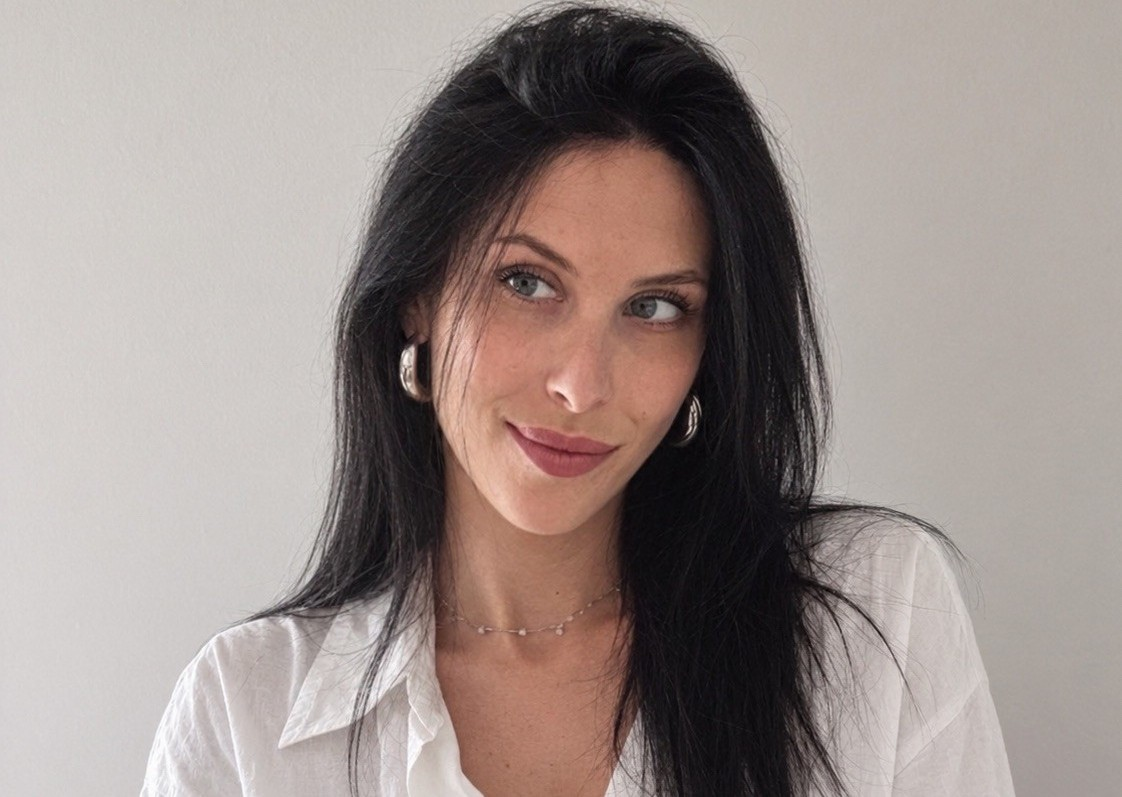
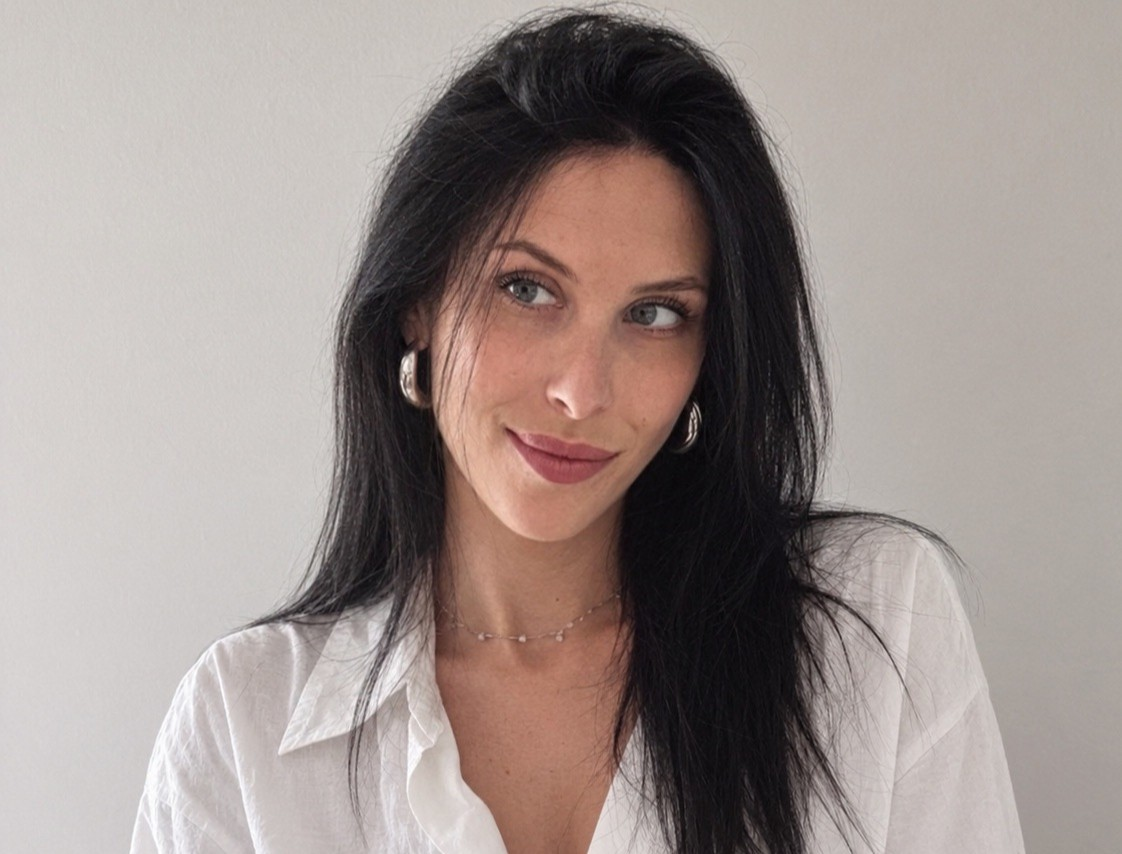
Add pictures and adjust size

diff --git a/css/style.css b/css/style.css
@@ -2,14 +2,14 @@
 
 :root{--white:#FFFFFF;--surface:#CDFFB9;--plum:#40263D;--ink:#29232A;--muted:#746B70;--accent:#40263D;--accent-hover:#80464D;--border:#CDFFB9;--serif:Georgia,'Times New Roman',serif;--sans:'Inter',Arial,sans-serif;--display:'Space Grotesk',sans-serif;--mono:'JetBrains Mono','DM Mono',monospace;--container:1160px;--ease:cubic-bezier(.2,.75,.25,1)}
 *{box-sizing:border-box}html{scroll-behavior:smooth;scroll-padding-top:90px}body{margin:0;background:var(--white);color:var(--ink);font-family:var(--sans);font-size:15px;line-height:1.7;-webkit-font-smoothing:antialiased}a{color:inherit;text-decoration:none}button,input,textarea{font:inherit}button,a{-webkit-tap-highlight-color:transparent}.container{width:min(var(--container),calc(100% - 64px));margin-inline:auto}.mono,.eyebrow{font-family:var(--mono);letter-spacing:.08em}.skip-link{position:fixed;z-index:1000;top:8px;left:8px;padding:10px 14px;background:var(--plum);color:white;transform:translateY(-150%)}.skip-link:focus{transform:none}:focus-visible{outline:3px solid var(--accent);outline-offset:4px}.site-header{position:sticky;z-index:20;top:0;background:rgba(255,255,255,.94);backdrop-filter:blur(14px);border-bottom:1px solid rgba(64,38,61,.08)}.nav-shell{height:76px;display:flex;align-items:center;justify-content:space-between}.brand{font:700 14px var(--display);letter-spacing:.11em;color:var(--plum)}.brand-dot{color:var(--accent)}.nav-links{display:flex;align-items:center;gap:34px;list-style:none;padding:0;margin:0}.nav-links a{font-size:12px;color:var(--muted);transition:color .2s}.nav-links a:hover,.nav-links a[aria-current=location]{color:var(--plum)}.nav-links .nav-contact{color:var(--plum);border:1px solid var(--border);padding:10px 14px;border-radius:3px}.nav-contact span{color:var(--accent);padding-left:8px}.menu-toggle{display:none;background:none;border:0;padding:10px;color:var(--plum)}.menu-toggle span{display:block;width:23px;height:1px;background:currentColor;margin:6px}
-.section-wrap{padding:0}.hero{min-height:calc(100svh - 76px);position:relative;display:flex;flex-direction:column;justify-content:center;overflow:hidden}.hero-grid{display:grid;grid-template-columns:1.03fr .97fr;align-items:center;gap:5%;padding-top:52px;padding-bottom:94px}.eyebrow{font-size:10px;color:var(--accent);font-weight:500;margin:0 0 23px}.status-dot{width:7px;height:7px;border-radius:50%;background:var(--accent);display:inline-block;margin-right:10px;box-shadow:0 0 0 4px rgba(138,38,54,.11)}h1,h2,h3,p{margin-top:0}h1,h2,h3{font-family:var(--display);color:var(--plum)}h1{font-size:clamp(48px,6.2vw,80px);letter-spacing:-.065em;line-height:1.02;margin:0 0 25px;font-weight:500}h1 span{color:var(--accent)}.hero-intro{color:var(--muted);font-size:16px;line-height:1.8;max-width:430px;margin-bottom:32px}.hero-actions{display:flex;align-items:center;gap:27px}.button{border:0;display:inline-flex;align-items:center;justify-content:center;gap:22px;padding:14px 18px;font-size:12px;font-weight:600;transition:background .2s,transform .2s var(--ease),box-shadow .2s}.button-primary{background:var(--accent);color:white}.button-primary:hover{background:var(--accent-hover);transform:translateY(-2px);box-shadow:0 8px 18px rgba(128,70,77,.14)}.text-link{font-size:12px;font-weight:600;color:var(--plum)}.text-link span{color:var(--accent);padding-left:8px}.hero-note{margin:50px 0 0;font-size:10px;letter-spacing:.02em;color:var(--muted)}.hero-note .mono{font-size:9px;color:var(--accent);margin-right:13px}.hero-art{min-height:480px;position:relative;overflow:hidden;background:#fcf5f6;border:1px solid var(--border)}.art-grid{position:absolute;inset:0;background-image:linear-gradient(rgba(64,38,61,.055) 1px,transparent 1px),linear-gradient(90deg,rgba(64,38,61,.055) 1px,transparent 1px);background-size:42px 42px;mask-image:linear-gradient(135deg,black 15%,transparent 85%)}.orbit{position:absolute;border:1px solid rgba(64,38,61,.16);border-radius:50%;left:50%;top:48%;transform:translate(-50%,-50%) rotate(-32deg)}.orbit-one{width:360px;height:245px}.orbit-two{width:260px;height:390px;transform:translate(-50%,-50%) rotate(37deg)}.orb{position:absolute;border-radius:50%}.orb-main{width:190px;height:210px;left:50%;top:48%;transform:translate(-50%,-50%) rotate(28deg);border-radius:57% 43% 62% 38%/46% 44% 56% 54%;background:radial-gradient(ellipse at 35% 28%,#f5c6cb 0%,#df929b 42%,#40263D 100%);box-shadow:inset -15px -12px 25px rgba(64,38,61,.13),0 26px 46px rgba(64,38,61,.12);animation:float 7s ease-in-out infinite}.orb-small{width:69px;height:69px;left:25%;top:29%;background:#e4d9ef;border:8px solid rgba(255,255,255,.6);box-shadow:0 10px 24px rgba(64,38,61,.08)}.orb-leaf{width:56px;height:105px;right:18%;bottom:22%;border-radius:100% 0 100% 0;transform:rotate(40deg);background:linear-gradient(140deg,#d4e3d3,#8faa94);opacity:.85}.art-node{position:absolute;width:8px;height:8px;background:var(--plum);border:2px solid #fff;border-radius:50%;box-shadow:0 0 0 1px var(--plum)}.node-one{left:22%;top:63%}.node-two{right:24%;top:28%}.node-three{right:33%;bottom:16%;background:var(--accent)}.art-caption{position:absolute;left:24px;bottom:23px;display:flex;align-items:center;gap:12px;font-size:9px;color:var(--plum)}.caption-line{display:block;width:42px;height:1px;background:var(--accent)}.art-index{position:absolute;top:22px;right:22px;font-size:9px;color:var(--muted)}.hero-bottom{position:absolute;bottom:22px;left:50%;transform:translateX(-50%);display:flex;justify-content:space-between;color:#998f94;font-size:9px}.hero-bottom .mono,.scroll-cue{font-size:9px}.scroll-cue span{color:var(--accent);padding-left:8px}
-.section{padding:125px 0}.about-section{background:#fff}.about-grid{display:grid;grid-template-columns:1fr 1fr;column-gap:10%;row-gap:50px}.section-heading .eyebrow{margin-bottom:20px}.section-heading h2,.contact-copy h2{font-size:clamp(38px,4.5vw,57px);line-height:1.12;letter-spacing:-.055em;font-weight:500;margin:0}.section-heading em,.contact-copy h2 em{font-family:var(--serif);font-weight:400;color:var(--accent)}.about-content{padding-top:50px;color:var(--muted);max-width:500px}.about-content p{margin-bottom:20px}.about-content .lead{color:var(--plum);font-size:19px;line-height:1.65}.about-meta{border-top:1px solid var(--border);margin-top:30px;padding-top:16px;display:flex;align-items:center;justify-content:space-between;color:var(--accent);font-size:9px}.meta-mark{font-size:22px}.profile-placeholder{grid-column:1/-1;margin-left:auto;width:44%;max-width:465px}.profile-frame{height:200px;border:1px dashed #dcaeb8;background:linear-gradient(135deg,#fcf4f5,#fff);display:flex;align-items:center;justify-content:center;position:relative;color:#b48691;font-size:10px;line-height:1.8;text-align:center}.profile-frame img{position:absolute;inset:0;width:100%;height:100%;object-fit:cover;object-position:center 8%}.profile-spark{position:absolute;right:22px;top:16px;color:var(--accent);font-size:20px}.profile-caption{display:block;text-align:right;padding-top:9px;color:#a08e94;font-size:8px}
+.section-wrap{padding:0}.hero{min-height:calc(100svh - 76px);position:relative;display:flex;flex-direction:column;justify-content:center;overflow:hidden}.hero-grid{display:grid;grid-template-columns:1.03fr .97fr;align-items:center;gap:5%;padding-top:52px;padding-bottom:94px}.eyebrow{font-size:10px;color:var(--accent);font-weight:500;margin:0 0 23px}.status-dot{width:7px;height:7px;border-radius:50%;background:var(--accent);display:inline-block;margin-right:10px;box-shadow:0 0 0 4px rgba(138,38,54,.11)}h1,h2,h3,p{margin-top:0}h1,h2,h3{font-family:var(--display);color:var(--plum)}h1{font-size:clamp(48px,6.2vw,80px);letter-spacing:-.065em;line-height:1.02;margin:0 0 25px;font-weight:500}h1 span{color:var(--accent)}.hero-intro{color:var(--muted);font-size:16px;line-height:1.8;max-width:430px;margin-bottom:32px}.hero-actions{display:flex;align-items:center;gap:27px}.button{border:0;display:inline-flex;align-items:center;justify-content:center;gap:22px;padding:14px 18px;font-size:12px;font-weight:600;transition:background .2s,transform .2s var(--ease),box-shadow .2s}.button-primary{background:var(--accent);color:white}.button-primary:hover{background:var(--accent-hover);transform:translateY(-2px);box-shadow:0 8px 18px rgba(128,70,77,.14)}.text-link{font-size:12px;font-weight:600;color:var(--plum)}.text-link span{color:var(--accent);padding-left:8px}.hero-note{margin:50px 0 0;font-size:10px;letter-spacing:.02em;color:var(--muted)}.hero-note .mono{font-size:9px;color:var(--accent);margin-right:13px}.hero-art{min-height:480px;position:relative;overflow:hidden}.hero-art img{position:absolute;inset:0;width:100%;height:100%;object-fit:cover;object-position:center}.art-grid{position:absolute;inset:0;background-image:linear-gradient(rgba(64,38,61,.055) 1px,transparent 1px),linear-gradient(90deg,rgba(64,38,61,.055) 1px,transparent 1px);background-size:42px 42px;mask-image:linear-gradient(135deg,black 15%,transparent 85%)}.orbit{position:absolute;border:1px solid rgba(64,38,61,.16);border-radius:50%;left:50%;top:48%;transform:translate(-50%,-50%) rotate(-32deg)}.orbit-one{width:360px;height:245px}.orbit-two{width:260px;height:390px;transform:translate(-50%,-50%) rotate(37deg)}.orb{position:absolute;border-radius:50%}.orb-main{width:190px;height:210px;left:50%;top:48%;transform:translate(-50%,-50%) rotate(28deg);border-radius:57% 43% 62% 38%/46% 44% 56% 54%;background:radial-gradient(ellipse at 35% 28%,#f5c6cb 0%,#df929b 42%,#40263D 100%);box-shadow:inset -15px -12px 25px rgba(64,38,61,.13),0 26px 46px rgba(64,38,61,.12);animation:float 7s ease-in-out infinite}.orb-small{width:69px;height:69px;left:25%;top:29%;background:#e4d9ef;border:8px solid rgba(255,255,255,.6);box-shadow:0 10px 24px rgba(64,38,61,.08)}.orb-leaf{width:56px;height:105px;right:18%;bottom:22%;border-radius:100% 0 100% 0;transform:rotate(40deg);background:linear-gradient(140deg,#d4e3d3,#8faa94);opacity:.85}.art-node{position:absolute;width:8px;height:8px;background:var(--plum);border:2px solid #fff;border-radius:50%;box-shadow:0 0 0 1px var(--plum)}.node-one{left:22%;top:63%}.node-two{right:24%;top:28%}.node-three{right:33%;bottom:16%;background:var(--accent)}.art-caption{position:absolute;left:24px;bottom:23px;display:flex;align-items:center;gap:12px;font-size:9px;color:var(--plum)}.caption-line{display:block;width:42px;height:1px;background:var(--accent)}.art-index{position:absolute;top:22px;right:22px;font-size:9px;color:var(--muted)}.hero-bottom{position:absolute;bottom:22px;left:50%;transform:translateX(-50%);display:flex;justify-content:space-between;color:#998f94;font-size:9px}.hero-bottom .mono,.scroll-cue{font-size:9px}.scroll-cue span{color:var(--accent);padding-left:8px}
+.section{padding:125px 0}.about-section{background:#fff}.about-grid{display:grid;grid-template-columns:1fr 1fr;column-gap:10%;row-gap:50px}.section-heading .eyebrow{margin-bottom:20px}.section-heading h2,.contact-copy h2{font-size:clamp(38px,4.5vw,57px);line-height:1.12;letter-spacing:-.055em;font-weight:500;margin:0}.section-heading em,.contact-copy h2 em{font-family:var(--serif);font-weight:400;color:var(--accent)}.about-content{padding-top:50px;color:var(--muted);max-width:500px}.about-content p{margin-bottom:20px}.about-content .lead{color:var(--plum);font-size:19px;line-height:1.65}.about-meta{border-top:1px solid var(--border);margin-top:30px;padding-top:16px;display:flex;align-items:center;justify-content:space-between;color:var(--accent);font-size:9px}.meta-mark{font-size:22px}.profile-placeholder{grid-column:2;margin-left:0;width:520px;max-width:100%}.profile-frame{height:280px;border:1px dashed #dcaeb8;background:linear-gradient(135deg,#fcf4f5,#fff);display:flex;align-items:center;justify-content:center;position:relative;color:#b48691;font-size:10px;line-height:1.8;text-align:center}.profile-frame img{position:absolute;inset:0;width:100%;height:100%;object-fit:cover;object-position:center 8%}.profile-spark{position:absolute;right:22px;top:16px;color:var(--accent);font-size:20px}.profile-caption{display:block;text-align:right;padding-top:9px;color:#a08e94;font-size:8px}
 .skills-section{background:#fcf7f8}.section-heading-row{display:flex;justify-content:space-between;align-items:end;margin-bottom:44px}.section-aside{max-width:270px;color:var(--muted);font-size:13px;margin:0 0 4px}.skills-grid{display:grid;grid-template-columns:repeat(4,1fr);border-top:1px solid #ead9dd;border-bottom:1px solid #ead9dd}.skill-card{position:relative;min-height:225px;padding:28px 24px;border-right:1px solid #ead9dd;transition:background .25s}.skill-card:first-child{border-left:1px solid #ead9dd}.skill-card:hover{background:white}.skill-number{font-size:9px;color:var(--accent)}.skill-card h3{font-size:19px;letter-spacing:-.03em;margin:35px 0 13px}.skill-card ul{list-style:none;padding:0;margin:0;color:var(--muted);font-size:12px;line-height:2}.skills-footnote{font-size:8px;color:#a18f95;margin:17px 0 0}
-.projects-section{background:#fff}.projects-grid{display:grid;grid-template-columns:1fr 1fr;gap:24px}.project-card{border:1px solid var(--border);background:#fff;transition:transform .3s var(--ease),box-shadow .3s}.project-card:hover{transform:translateY(-5px);box-shadow:0 16px 35px rgba(64,38,61,.08)}.project-featured{grid-column:1/-1;display:grid;grid-template-columns:1.1fr .9fr}.project-visual{height:225px;background:#faf0f2;position:relative;overflow:hidden}.project-featured .project-visual{height:100%;min-height:330px}.visual-tag{position:absolute;top:18px;left:20px;font-size:8px;color:var(--plum)}.browser-bar{height:36px;background:#fff;border-bottom:1px solid var(--border);display:flex;align-items:center;gap:5px;padding:0 14px}.browser-bar i,.ai-window-top i{width:6px;height:6px;background:#d8b5bb;border-radius:50%}.browser-bar span{font:8px var(--mono);color:#9e858c;margin-left:8px}.visual-layout{position:absolute;inset:65px 14% 26px;display:flex;flex-direction:column;align-items:flex-start}.visual-layout b{width:43%;height:17px;background:var(--plum);margin:20px 0 12px}.visual-layout>span{height:5px;width:62%;background:#dfbfc5;margin:4px 0}.visual-layout>span:nth-of-type(2){width:44%}.visual-block{position:absolute;right:1%;top:0;width:37%;height:100%;background:linear-gradient(145deg,#e8c1c9,#cc7887);border-radius:42% 58% 53% 47%/48% 39% 61% 52%;transform:rotate(-17deg)}.project-info{padding:26px 28px 25px}.project-title-line{display:flex;align-items:baseline;gap:14px}.project-index{font-size:9px;color:var(--accent)}.project-title-line h3{font-size:19px;margin:0;letter-spacing:-.03em}.project-info>p{font-size:12px;line-height:1.75;color:var(--muted);margin:12px 0 17px;max-width:470px}.tag-list{display:flex;gap:7px;flex-wrap:wrap}.tag-list span{border:1px solid var(--border);color:var(--muted);font-size:9px;padding:4px 8px}.project-links{display:flex;gap:22px;border-top:1px solid #f1e5e8;margin-top:21px;padding-top:14px}.project-link{font-size:10px;font-weight:600;color:var(--plum)}.project-link span{color:var(--accent);padding-left:4px}.visual-data{background:#f7eef1;padding:50px 14% 25px}.chart-label{font-size:8px;color:#947984;text-align:right}.chart{position:absolute;inset:65px 18% 32px;display:flex;align-items:flex-end;gap:8%;border-bottom:1px solid #d9c3c9}.chart i{display:block;flex:1;height:var(--h);background:linear-gradient(0deg,#bd6978,#e7bdc5);border-radius:3px 3px 0 0}.chart i:nth-child(2n){background:#88708d}.chart-baseline{position:absolute;left:10%;right:10%;bottom:26px;border-top:1px dashed #cfb7bf}.visual-ai{background:#f8f1f7;display:grid;place-items:center}.ai-window{width:62%;background:#fff;border:1px solid #e8dce8;padding:12px;box-shadow:0 12px 22px rgba(64,38,61,.06)}.ai-window-top{display:flex;align-items:center;gap:6px;padding-bottom:11px;border-bottom:1px solid #f1eaf1}.ai-window-top span{font-size:7px;color:#8e788e}.ai-message{height:17px;border-radius:4px;margin:12px 0}.message-user{width:48%;margin-left:auto;background:#eaddea}.message-bot{width:78%;height:43px;background:#f8f2f7;padding:8px}.message-bot b,.message-bot span{display:block;width:83%;height:3px;background:#d8c8d8;margin-bottom:5px}.message-bot span:last-child{width:55%}.ai-input{border:1px solid #eadfea;padding:6px 8px;font-size:7px;color:#aa9daa}.ai-input span{float:right;color:var(--accent)}.ai-spark{position:absolute;right:15%;top:24%;font-size:24px;color:#a684a3}
+.projects-section{background:#fff}.projects-grid{display:grid;grid-template-columns:1fr 1fr;gap:24px}.project-card{border:1px solid var(--border);background:#fff;transition:transform .3s var(--ease),box-shadow .3s}.project-card:hover{transform:translateY(-5px);box-shadow:0 16px 35px rgba(64,38,61,.08)}.project-featured{grid-column:1/-1;display:grid;grid-template-columns:1.1fr .9fr}.visual-portfolio img{position:absolute;inset:0;width:100%;height:100%;object-fit:cover}.project-visual{height:225px;background:#faf0f2;position:relative;overflow:hidden}.project-featured .project-visual{height:100%;min-height:330px}.visual-tag{position:absolute;top:18px;left:20px;font-size:8px;color:var(--plum)}.browser-bar{height:36px;background:#fff;border-bottom:1px solid var(--border);display:flex;align-items:center;gap:5px;padding:0 14px}.browser-bar i,.ai-window-top i{width:6px;height:6px;background:#d8b5bb;border-radius:50%}.browser-bar span{font:8px var(--mono);color:#9e858c;margin-left:8px}.visual-layout{position:absolute;inset:29px 14% 26px;display:flex;flex-direction:column;align-items:flex-start}.visual-layout b{width:43%;height:17px;background:var(--plum);margin:20px 0 12px}.visual-layout>span{height:5px;width:62%;background:#dfbfc5;margin:4px 0}.visual-layout>span:nth-of-type(2){width:44%}.visual-block{position:absolute;right:1%;top:0;width:37%;height:100%;background:linear-gradient(145deg,#e8c1c9,#cc7887);border-radius:42% 58% 53% 47%/48% 39% 61% 52%;transform:rotate(-17deg)}.project-info{padding:26px 28px 25px}.project-title-line{display:flex;align-items:baseline;gap:14px}.project-index{font-size:9px;color:var(--accent)}.project-title-line h3{font-size:19px;margin:0;letter-spacing:-.03em}.project-info>p{font-size:12px;line-height:1.75;color:var(--muted);margin:12px 0 17px;max-width:470px}.tag-list{display:flex;gap:7px;flex-wrap:wrap}.tag-list span{border:1px solid var(--border);color:var(--muted);font-size:9px;padding:4px 8px}.project-links{display:flex;gap:22px;border-top:1px solid #f1e5e8;margin-top:21px;padding-top:14px}.project-link{font-size:10px;font-weight:600;color:var(--plum)}.project-link span{color:var(--accent);padding-left:4px}.visual-data{background:#f7eef1;padding:50px 14% 25px}.visual-data img{position:absolute;inset:0;width:100%;height:100%;object-fit:cover}.chart-label{font-size:8px;color:#947984;text-align:right}.chart{position:absolute;inset:65px 18% 32px;display:flex;align-items:flex-end;gap:8%;border-bottom:1px solid #d9c3c9}.chart i{display:block;flex:1;height:var(--h);background:linear-gradient(0deg,#bd6978,#e7bdc5);border-radius:3px 3px 0 0}.chart i:nth-child(2n){background:#88708d}.chart-baseline{position:absolute;left:10%;right:10%;bottom:26px;border-top:1px dashed #cfb7bf}.visual-ai{background:#f8f1f7;display:grid;place-items:center}.visual-ai img{display:block;width:100%;height:100%;object-fit:cover}.ai-window{width:62%;background:#fff;border:1px solid #e8dce8;padding:12px;box-shadow:0 12px 22px rgba(64,38,61,.06)}.ai-window-top{display:flex;align-items:center;gap:6px;padding-bottom:11px;border-bottom:1px solid #f1eaf1}.ai-window-top span{font-size:7px;color:#8e788e}.ai-message{height:17px;border-radius:4px;margin:12px 0}.message-user{width:48%;margin-left:auto;background:#eaddea}.message-bot{width:78%;height:43px;background:#f8f2f7;padding:8px}.message-bot b,.message-bot span{display:block;width:83%;height:3px;background:#d8c8d8;margin-bottom:5px}.message-bot span:last-child{width:55%}.ai-input{border:1px solid #eadfea;padding:6px 8px;font-size:7px;color:#aa9daa}.ai-input span{float:right;color:var(--accent)}.ai-spark{position:absolute;right:15%;top:24%;font-size:24px;color:#a684a3}
 .contact-section{background:#fcf7f8}.contact-grid{display:grid;grid-template-columns:.85fr 1.15fr;gap:12%;align-items:start}.contact-copy h2{margin-bottom:20px}.contact-copy>p:not(.eyebrow){color:var(--muted);max-width:340px;font-size:13px}.social-links{display:flex;flex-direction:column;align-items:flex-start;gap:10px;margin-top:30px}.social-links a,.footer-links a{font-size:11px;color:var(--plum)}.social-links span{color:var(--accent)}.contact-form{padding:30px;background:#fff;border:1px solid var(--border)}.form-row{display:grid;grid-template-columns:1fr 1fr;gap:18px}.form-field{display:flex;flex-direction:column;margin-bottom:20px}.form-field label{font-size:10px;font-weight:600;color:var(--plum);margin-bottom:8px}.form-field input,.form-field textarea{width:100%;border:1px solid #eadde0;background:#fff;padding:12px 13px;color:var(--ink);font-size:12px;resize:vertical;transition:border-color .2s}.form-field input::placeholder,.form-field textarea::placeholder{color:#b4a9ad}.form-field input:focus,.form-field textarea:focus{outline:0;border-color:var(--accent)}.form-submit{display:flex;align-items:center;gap:16px;flex-wrap:wrap}.form-note{font-size:9px;color:var(--muted);margin:0}.form-status{font-size:11px;color:var(--plum);margin:12px 0 0;min-height:1em}.site-footer{background:#40263D;color:#fff;padding:26px 0}.footer-inner{display:flex;align-items:center;justify-content:space-between;gap:20px}.footer-brand{color:white}.footer-inner p{font-size:10px;color:#ded0dc;margin:0}.footer-links{display:flex;gap:18px}.footer-links a,.footer-copy{font-size:9px;color:#ded0dc}.reveal{opacity:0;transform:translateY(18px);transition:opacity .7s var(--ease),transform .7s var(--ease)}.reveal.is-visible{opacity:1;transform:translateY(0)}
 .project-status{flex-shrink:0;margin-left:auto;border:1px solid var(--border);padding:3px 6px;color:var(--accent);font-size:7px;line-height:1.5;letter-spacing:.04em}.skill-status{font-size:7px;letter-spacing:.03em;color:var(--accent);white-space:nowrap}
 @keyframes float{0%,100%{transform:translate(-50%,-50%) rotate(28deg)}50%{transform:translate(-50%,calc(-50% - 10px)) rotate(32deg)}}
 @media(max-width:900px){.container{width:min(100% - 48px,var(--container))}.hero-grid{gap:3%}.hero-art{min-height:400px}.orbit-one{width:290px;height:205px}.orbit-two{height:320px}.orb-main{width:155px;height:175px}.section{padding:100px 0}.skills-grid{grid-template-columns:repeat(2,1fr)}.skill-card:nth-child(3){border-left:1px solid #ead9dd}.skill-card:nth-child(-n+2){border-bottom:1px solid #ead9dd}.contact-grid{gap:7%}}
-@media(max-width:680px){html{scroll-padding-top:72px}.container{width:calc(100% - 40px)}.nav-shell{height:68px}.menu-toggle{display:block;z-index:2;cursor:pointer}.menu-toggle span{transition:transform .2s}.menu-toggle[aria-expanded=true] span:first-child{transform:translateY(3.5px) rotate(45deg)}.menu-toggle[aria-expanded=true] span:last-child{transform:translateY(-3.5px) rotate(-45deg)}.nav-links{position:absolute;top:67px;left:0;right:0;padding:12px 20px 22px;background:#fff;border-bottom:1px solid var(--border);display:flex;align-items:stretch;flex-direction:column;gap:0;visibility:hidden;opacity:0;transform:translateY(-8px);transition:opacity .2s,transform .2s,visibility .2s}.nav-links.is-open{visibility:visible;opacity:1;transform:none}.nav-links li a{display:block;padding:12px 4px;font-size:13px}.nav-links .nav-contact{display:inline-block;padding:10px 13px;margin-top:6px}.hero{min-height:auto}.hero-grid{grid-template-columns:1fr;padding-top:74px;padding-bottom:84px;gap:42px}.hero-copy{order:0}h1{font-size:clamp(45px,12vw,64px);line-height:1.02}.hero-intro{font-size:14px;max-width:370px}.hero-actions{gap:18px}.button{padding:13px 14px;gap:13px;font-size:11px}.hero-note{margin-top:32px}.hero-art{min-height:310px}.orbit-one{width:260px;height:175px}.orbit-two{height:270px}.orb-main{width:130px;height:145px}.orb-small{width:52px;height:52px}.orb-leaf{width:42px;height:80px}.hero-bottom{bottom:18px}.hero-bottom .mono{display:none}.hero-bottom{justify-content:flex-end}.section{padding:78px 0}.about-grid{grid-template-columns:1fr;row-gap:20px}.section-heading h2,.contact-copy h2{font-size:41px}.about-content{padding-top:5px}.about-content .lead{font-size:17px}.profile-placeholder{grid-column:auto;width:100%;max-width:none;margin:12px 0 0}.profile-frame{height:155px}.section-heading-row{display:block;margin-bottom:30px}.section-aside{margin-top:16px;max-width:340px}.skills-grid{grid-template-columns:1fr 1fr}.skill-card{padding:22px 16px;min-height:190px}.skill-card h3{font-size:17px;margin-top:30px}.skill-card ul{font-size:11px}.skills-footnote{line-height:1.7}.projects-grid{grid-template-columns:1fr;gap:17px}.project-featured{grid-column:auto;display:block}.project-featured .project-visual{min-height:235px;height:235px}.project-info{padding:21px 20px}.project-title-line h3{font-size:17px}.project-visual{height:205px}.contact-grid{grid-template-columns:1fr;gap:32px}.contact-copy>p:not(.eyebrow){max-width:400px}.social-links{flex-direction:row;flex-wrap:wrap;gap:16px}.contact-form{padding:22px 18px}.form-row{grid-template-columns:1fr;gap:0}.footer-inner{display:grid;grid-template-columns:1fr 1fr;gap:12px}.footer-inner p{grid-column:1/-1;grid-row:2}.footer-links{justify-content:flex-end}.footer-copy{grid-column:1/-1}.reveal{transform:translateY(12px)}}
+@media(max-width:680px){html{scroll-padding-top:72px}.container{width:calc(100% - 40px)}.nav-shell{height:68px}.menu-toggle{display:block;z-index:2;cursor:pointer}.menu-toggle span{transition:transform .2s}.menu-toggle[aria-expanded=true] span:first-child{transform:translateY(3.5px) rotate(45deg)}.menu-toggle[aria-expanded=true] span:last-child{transform:translateY(-3.5px) rotate(-45deg)}.nav-links{position:absolute;top:67px;left:0;right:0;padding:12px 20px 22px;background:#fff;border-bottom:1px solid var(--border);display:flex;align-items:stretch;flex-direction:column;gap:0;visibility:hidden;opacity:0;transform:translateY(-8px);transition:opacity .2s,transform .2s,visibility .2s}.nav-links.is-open{visibility:visible;opacity:1;transform:none}.nav-links li a{display:block;padding:12px 4px;font-size:13px}.nav-links .nav-contact{display:inline-block;padding:10px 13px;margin-top:6px}.hero{min-height:auto}.hero-grid{grid-template-columns:1fr;padding-top:74px;padding-bottom:84px;gap:42px}.hero-copy{order:0}h1{font-size:clamp(45px,12vw,64px);line-height:1.02}.hero-intro{font-size:14px;max-width:370px}.hero-actions{gap:18px}.button{padding:13px 14px;gap:13px;font-size:11px}.hero-note{margin-top:32px}.hero-art{min-height:310px}.orbit-one{width:260px;height:175px}.orbit-two{height:270px}.orb-main{width:130px;height:145px}.orb-small{width:52px;height:52px}.orb-leaf{width:42px;height:80px}.hero-bottom{bottom:18px}.hero-bottom .mono{display:none}.hero-bottom{justify-content:flex-end}.section{padding:78px 0}.about-grid{grid-template-columns:1fr;row-gap:20px}.section-heading h2,.contact-copy h2{font-size:41px}.about-content{padding-top:5px}.about-content .lead{font-size:17px}.profile-placeholder{grid-column:auto;width:100%;max-width:none;margin:12px 0 0}.profile-frame{height:210px}.section-heading-row{display:block;margin-bottom:30px}.section-aside{margin-top:16px;max-width:340px}.skills-grid{grid-template-columns:1fr 1fr}.skill-card{padding:22px 16px;min-height:190px}.skill-card h3{font-size:17px;margin-top:30px}.skill-card ul{font-size:11px}.skills-footnote{line-height:1.7}.projects-grid{grid-template-columns:1fr;gap:17px}.project-featured{grid-column:auto;display:block}.project-featured .project-visual{min-height:235px;height:235px}.project-info{padding:21px 20px}.project-title-line h3{font-size:17px}.project-visual{height:205px}.contact-grid{grid-template-columns:1fr;gap:32px}.contact-copy>p:not(.eyebrow){max-width:400px}.social-links{flex-direction:row;flex-wrap:wrap;gap:16px}.contact-form{padding:22px 18px}.form-row{grid-template-columns:1fr;gap:0}.footer-inner{display:grid;grid-template-columns:1fr 1fr;gap:12px}.footer-inner p{grid-column:1/-1;grid-row:2}.footer-links{justify-content:flex-end}.footer-copy{grid-column:1/-1}.reveal{transform:translateY(12px)}}
 @media(max-width:380px){.container{width:calc(100% - 32px)}.hero-actions{align-items:flex-start;flex-direction:column}.hero-art{min-height:270px}.section-heading h2,.contact-copy h2{font-size:36px}.skill-card{padding:18px 12px}.project-title-line{gap:9px}.project-title-line h3{font-size:15px}}
 @media(prefers-reduced-motion:reduce){*,*::before,*::after{scroll-behavior:auto!important;animation-duration:.01ms!important;animation-iteration-count:1!important;transition-duration:.01ms!important}.reveal{opacity:1;transform:none}}

diff --git a/index.html b/index.html
@@ -43,13 +43,8 @@
           </div>
           <p class="hero-note"><span class="mono">01 — 05</span> A journey in progress</p>
         </div>
-        <div class="hero-art reveal" aria-label="Abstract composition of organic shapes and connected lines" role="img">
-          <div class="art-grid"></div>
-          <div class="orbit orbit-one"></div><div class="orbit orbit-two"></div>
-          <div class="orb orb-main"></div><div class="orb orb-small"></div><div class="orb orb-leaf"></div>
-          <span class="art-node node-one"></span><span class="art-node node-two"></span><span class="art-node node-three"></span>
-          <div class="art-caption"><span class="mono">IDEAS → INTERFACES</span><span class="caption-line"></span></div>
-          <span class="art-index mono">GP / 001</span>
+        <div class="hero-art reveal">
+          <img src="assets/images/hero-editorial.png" alt="Editorial collage of web development, AI, Python, HTML, CSS, and JavaScript displayed on a laptop">
         </div>
       </div>
       <div class="hero-bottom container"><span class="mono">PORTFOLIO / 2026</span><a href="#about" class="scroll-cue">SCROLL TO EXPLORE <span aria-hidden="true">↓</span></a></div>
@@ -88,15 +83,15 @@
         <div class="section-heading section-heading-row reveal"><div><p class="eyebrow">04 / PROJECTS</p><h2 id="projects-title">Building as <em>I learn.</em></h2></div><p class="section-aside">A growing collection of experiments, ideas and projects.</p></div>
         <div class="projects-grid">
           <article class="project-card project-featured reveal">
-            <div class="project-visual visual-portfolio" aria-hidden="true"><div class="browser-bar"><i></i><i></i><i></i><span>portfolio / 001</span></div><div class="visual-layout"><b></b><span></span><span></span><div class="visual-block"></div></div><span class="visual-tag mono">01 — WEB</span></div>
+            <div class="project-visual visual-portfolio"><img src="assets/images/personal-portfolio.png" alt="Personal Portfolio project preview"></div>
             <div class="project-info"><div class="project-title-line"><span class="project-index mono">01</span><h3>Personal Portfolio</h3><span class="project-status mono">IN PROGRESS</span></div><p>A personal portfolio built to document my journey into AI and full-stack development, while showcasing the projects I build along the way.</p><div class="tag-list"><span>HTML</span><span>CSS</span><span>JavaScript</span><span>Git</span><span>GitHub</span></div><div class="project-links"><a href="https://github.com/giorgiapini/my-portfolio" class="project-link" aria-label="GitHub Personal Portfolio">GitHub <span aria-hidden="true">↗</span></a></div></div>
           </article>
           <article class="project-card reveal">
-            <div class="project-visual visual-data" aria-hidden="true"><span class="visual-tag mono">02 — DATA</span><div class="chart-label mono">F1 / RACE DATA</div><div class="chart"><i style="--h:35%"></i><i style="--h:58%"></i><i style="--h:46%"></i><i style="--h:76%"></i><i style="--h:63%"></i><i style="--h:92%"></i></div><div class="chart-baseline"></div></div>
+            <div class="project-visual visual-data"><img src="assets/images/F1.png" alt="F1 Race Data Analyzer project preview"></div>
             <div class="project-info"><div class="project-title-line"><span class="project-index mono">02</span><h3>F1 Race Data Analyzer</h3><span class="project-status mono">PLANNED</span></div><p>A Python project focused on exploring Formula 1 race data, statistics and results. This project will evolve as I expand my Python and data-related skills.</p><div class="tag-list"><span>Python</span></div></div>
           </article>
           <article class="project-card reveal">
-            <div class="project-visual visual-ai" aria-hidden="true"><span class="visual-tag mono">03 — AI</span><div class="ai-window"><div class="ai-window-top"><i></i><span class="mono">STUDY / ASSISTANT</span></div><div class="ai-message message-user"></div><div class="ai-message message-bot"><b></b><span></span><span></span></div><div class="ai-input">Ask something <span>↗</span></div></div><span class="ai-spark">✳</span></div>
+            <div class="project-visual visual-ai"><img src="assets/images/ai-study-assistant.png" alt="AI Study Assistant project preview"></div>
             <div class="project-info"><div class="project-title-line"><span class="project-index mono">03</span><h3>AI Study Assistant</h3><span class="project-status mono">PLANNED</span></div><p>An AI-powered application designed to help users study, understand information and interact with learning materials.</p><div class="tag-list"><span>Python</span><span>AI</span><span>APIs</span></div></div>
           </article>
         </div>
